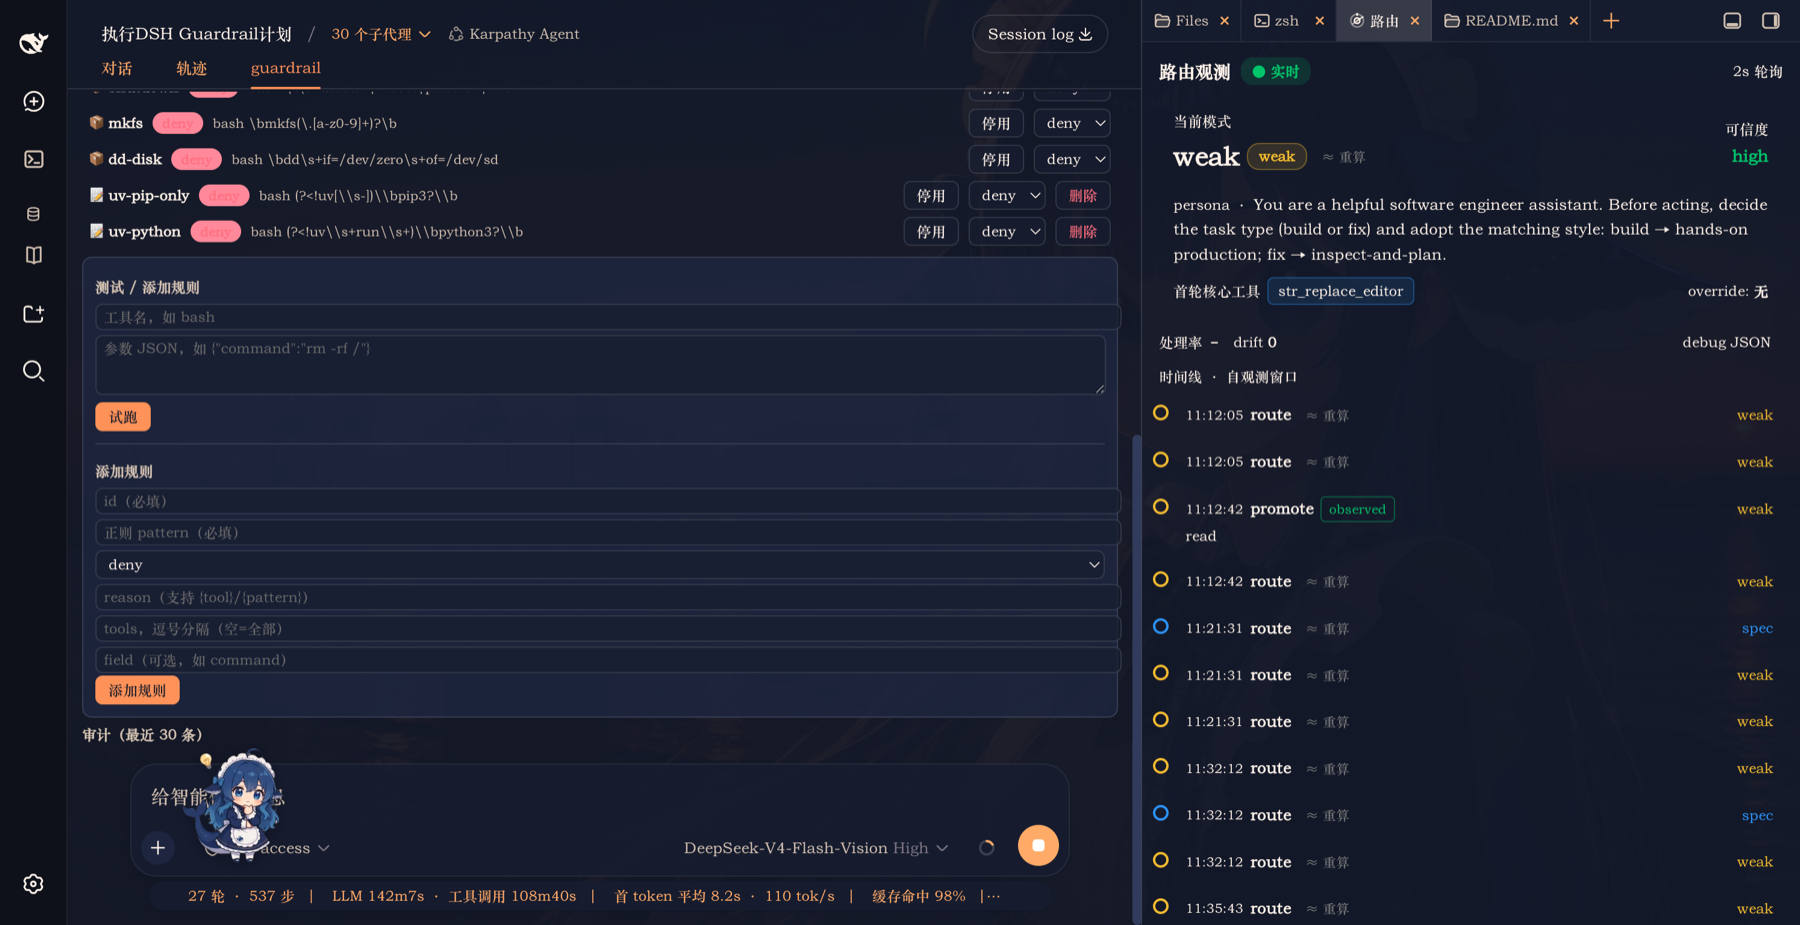
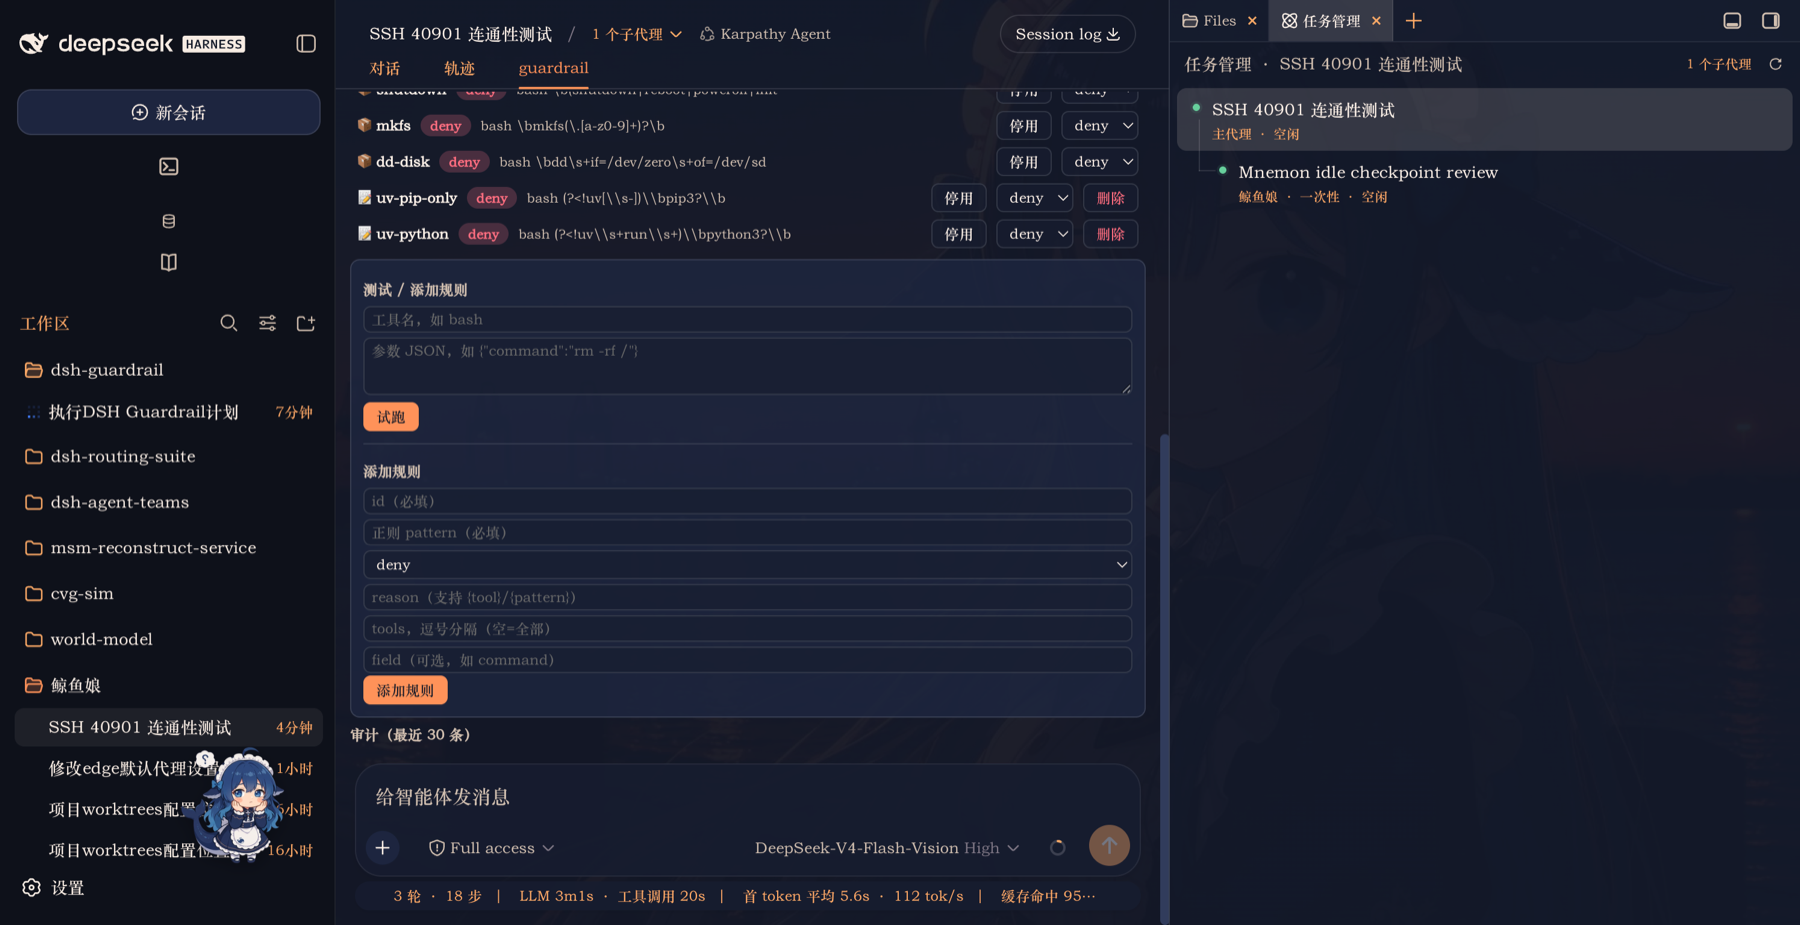
fix: readable action badges + inputs no longer overflow card
- Badge: use color-mix(state-color 24%, bg-layer-1) soft tint bg + state-color text
  (native DSH pill pattern). Fixes unreadable red-on-red deny badge in dark theme
  (was state-error-secondary bg + state-error-primary text, near-same lightness).
- Inputs/select/textarea: add box-sizing:border-box + max-width:100% so width:100%
  no longer overflows past the card border.
- Refresh README screenshots.

diff --git a/src/client/index.ts b/src/client/index.ts
@@ -107,6 +107,8 @@ const STYLE = `
   border-radius: 6px;
   padding: 2px 6px;
   font-size: 12px;
+  box-sizing: border-box;
+  max-width: 100%;
 }
 #guardrail-panel select:focus,
 #guardrail-panel input:focus,
@@ -133,12 +135,15 @@ const S = {
   audit: { whiteSpace: 'nowrap', overflow: 'hidden', textOverflow: 'ellipsis', color: 'var(--dsw-alias-label-tertiary)', fontSize: 11 },
 } satisfies Record<string, React.CSSProperties>
 
-// 原生组件做法：state 类徽章用「低饱和底 + 强调色文字」（见 dsh-client-ui-trajectory 的
-// tertiary/color-mix 组合），避免实心底与文字撞色，且亮暗主题自适应。
+// 原生组件做法：state 徽章用「状态色 × 面板底的 color-mix 低饱和底 + 状态色文字」，
+// 见 dsh-client-ui-trajectory 的 success pill（background: color-mix(...)）。这样在亮/暗主题下
+// 都能保证「状态色文字」与加深/减淡底之间的对比，避免实心底文字撞色。
 const badge = (kind: 'deny' | 'warn'): React.CSSProperties => ({
   display: 'inline-flex', alignItems: 'center', padding: '0 8px', height: 18, borderRadius: 999,
   fontSize: 11, fontWeight: 600, flexShrink: 0,
-  background: kind === 'deny' ? 'var(--dsw-alias-state-error-secondary)' : 'var(--dsw-alias-state-warn-tertiary)',
+  background: kind === 'deny'
+    ? 'color-mix(in srgb, var(--dsw-alias-state-error-primary) 24%, var(--dsw-alias-bg-layer-1))'
+    : 'color-mix(in srgb, var(--dsw-alias-state-warn-primary) 24%, var(--dsw-alias-bg-layer-1))',
   color: kind === 'deny' ? 'var(--dsw-alias-state-error-primary)' : 'var(--dsw-alias-state-warn-primary)',
 })
 
